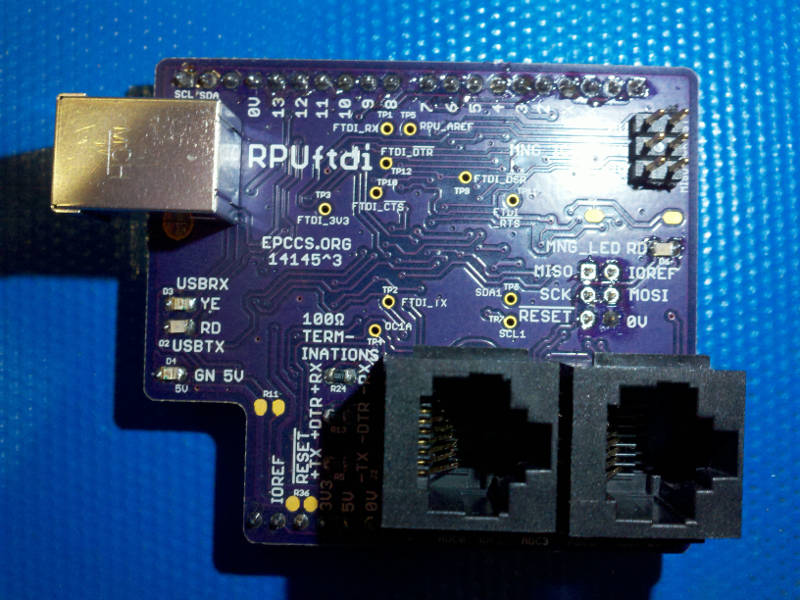
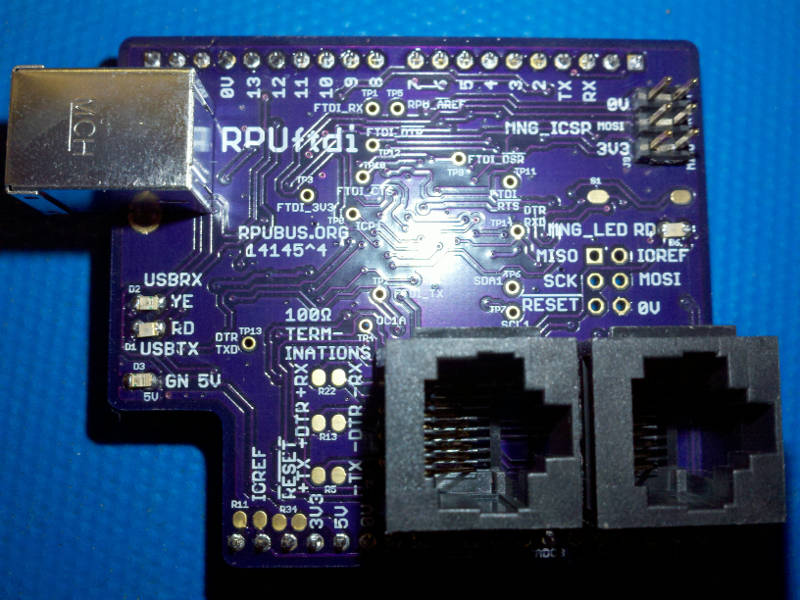
Hardware: ^4 assembly

diff --git a/Hardware/README.md b/Hardware/README.md
@@ -39,9 +39,9 @@ Eagle Files, BOM, Status, and how to Test.
 ![Status](./status_icon.png "RPUno Status")
 
 ```
-        ^4  Done: Design, Layout, BOM, 
-            WIP: Review*,
-            Todo: Order Boards, Assembly, Testing, Evaluation.
+        ^4  Done: Design, Layout, BOM, Review*, Order Boards, Assembly,
+            WIP: Testing,
+            Todo:  Evaluation.
             *during review the Design may change without changing the revision.
             Connect bus manager ICP1 pin to a test point rather than RXD from DTR transceiver. 
             Remove Vin connection and use +5V only.

diff --git a/Host2Remote/README.md b/Host2Remote/README.md
@@ -192,6 +192,6 @@ sudo modprobe ftdi_sio
 # the physcal UART chip will still have DTR/RTS active
 # but picocom can open and release it now to clear the
 # active lines.
-picocom -b 115200 /dev/ttyUSB0
+picocom -b 38400 /dev/ttyUSB0
 # C-a, C-x.
 ``` 
